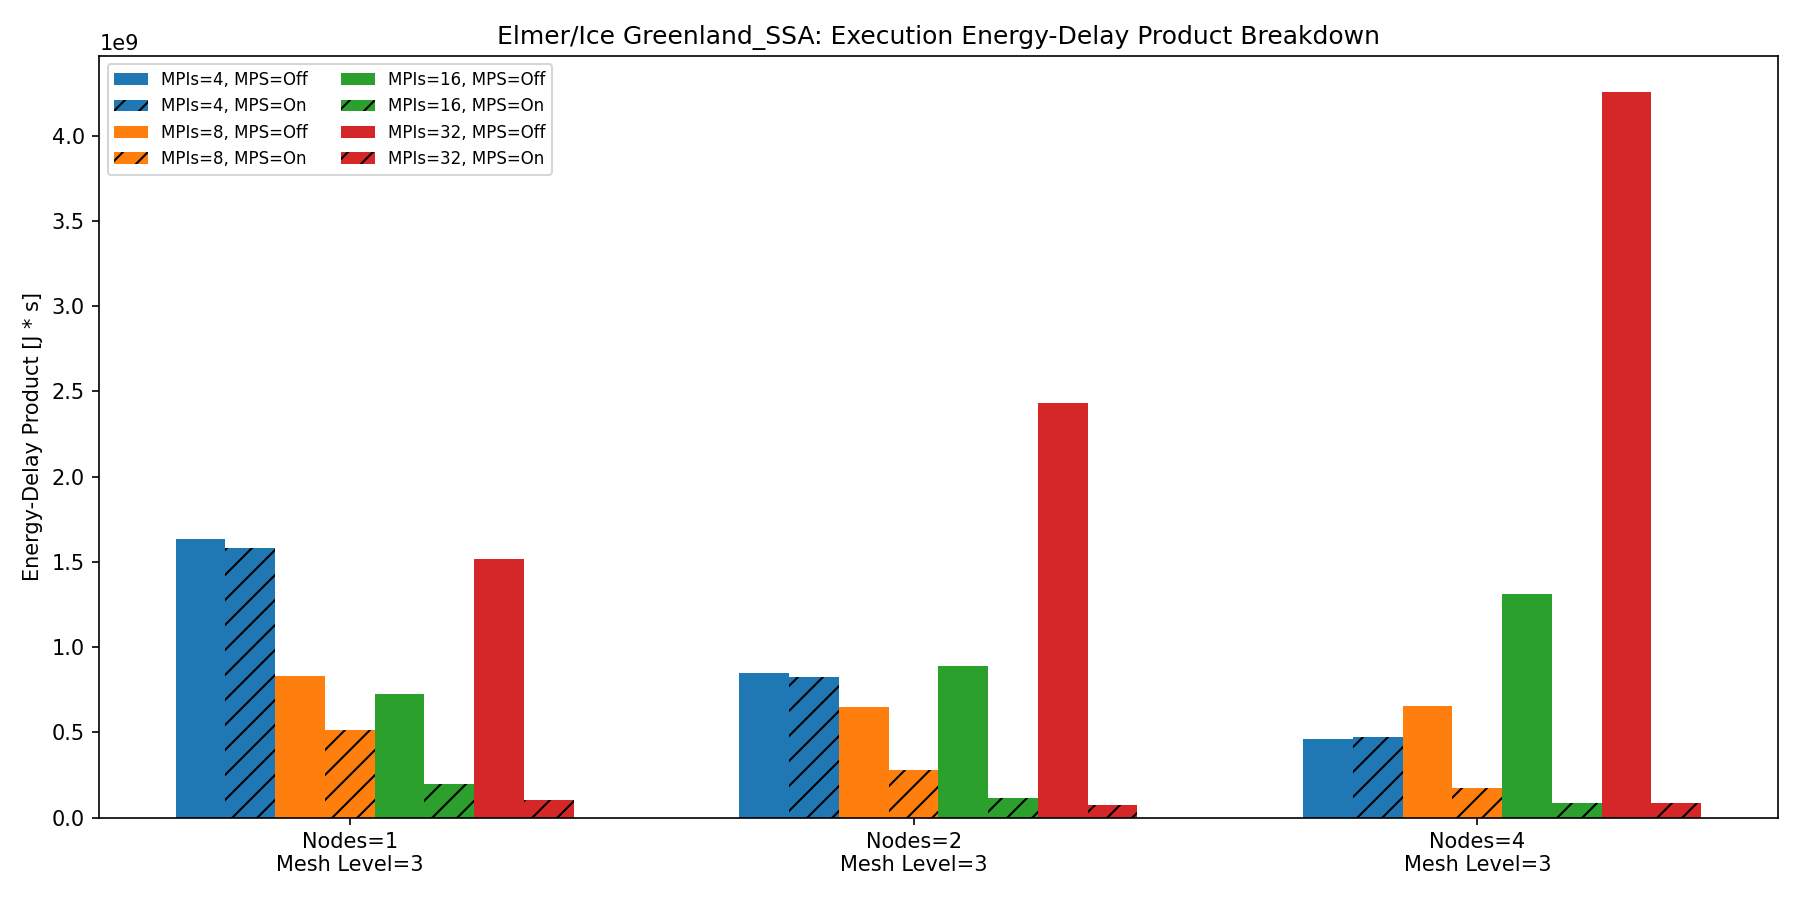
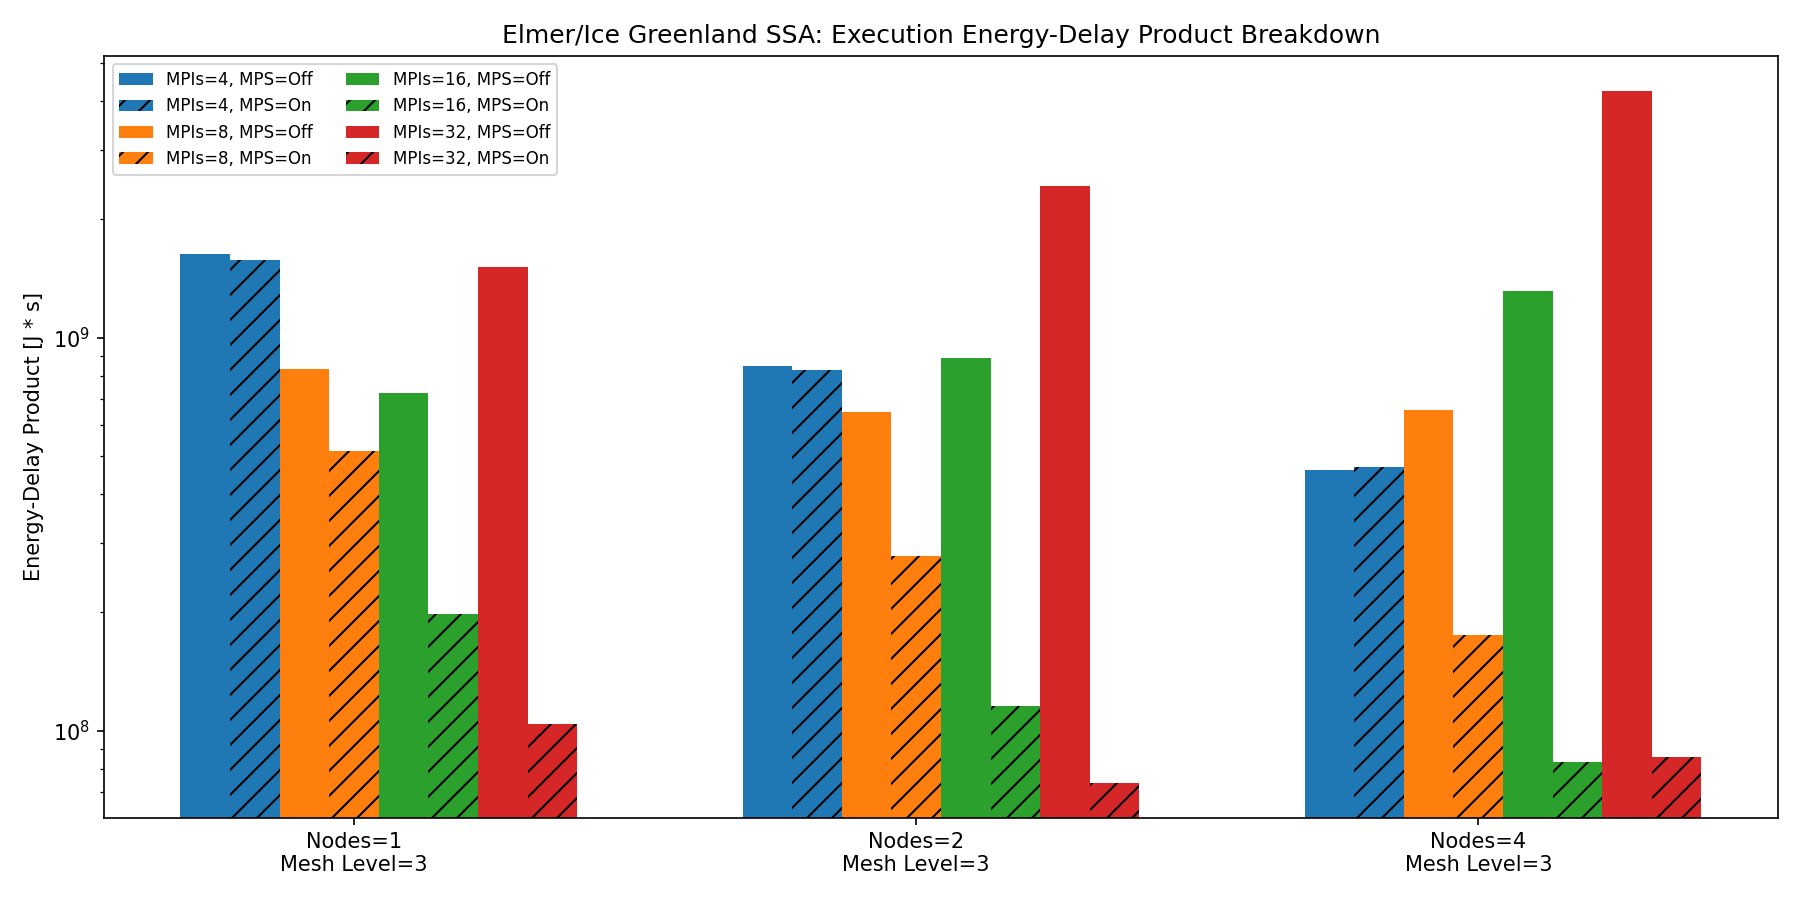
plots use log scale

diff --git a/analysis/plot.py b/analysis/plot.py
@@ -52,16 +52,17 @@ def plot(dframe, y_axis_str, outfilename):
     # ---- Labels ----
     if y_axis_str == "TOTAL_TIME":
         y_lab = "Time To Solution [s]"
-        title_lab = "Elmer/Ice Greenland_SSA: Execution Time Breakdown"
+        title_lab = "Elmer/Ice Greenland SSA: Execution Time Breakdown"
 
     if y_axis_str == "TOTAL_ENERGY":
         y_lab = "Energy To Solution [J]"
-        title_lab = "Elmer/Ice Greenland_SSA: Execution Energy Breakdown"
+        title_lab = "Elmer/Ice Greenland SSA: Execution Energy Breakdown"
 
     if y_axis_str == "EDP":
         y_lab = "Energy-Delay Product [J * s]"
-        title_lab = "Elmer/Ice Greenland_SSA: Execution Energy-Delay Product Breakdown"
-
+        title_lab = "Elmer/Ice Greenland SSA: Execution Energy-Delay Product Breakdown"
+    
+    ax.set_yscale("log")
     ax.set_ylabel(y_lab)
     ax.set_title(title_lab)
 

diff --git a/README.md b/README.md
@@ -57,6 +57,9 @@ The results are summarized in the plots below:
 
 The data can be found in `results/Leonardo/data.csv` produced using the scripts in `scripts/Leonardo` and analyzed using `analysis/plot.py`
 
+As shown, running Elmer/Ice with the Greenland SSA test case on Leonardo Booster significantly benefits from NVIDIA MPS. 
+Enabling MPS yields up to a 2x speedup in Time to Solution while also reducing the Energy to Solution by approximately half compared to the baseline configuration.
+
 # Segmentation Fault with elmerfem most recent commit
 
 The same scripts that produce the results above, crash with Segmentation Fault when running on a container with the most recent elmerfem commit:
